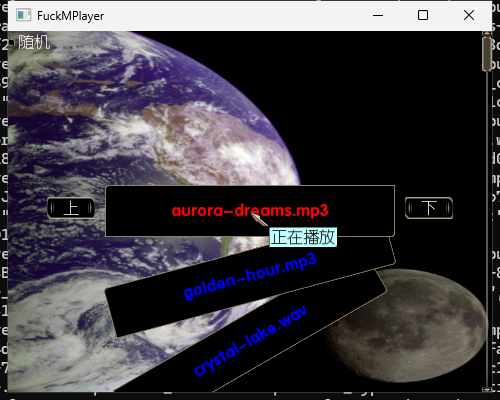
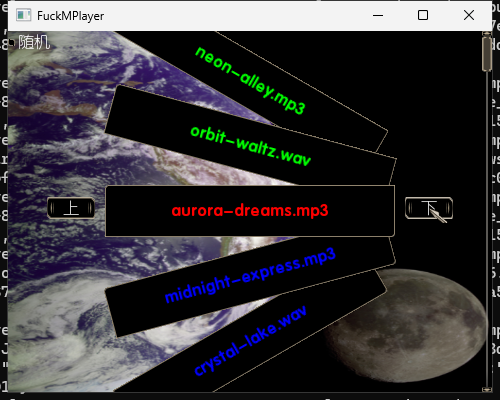
docs: commit scrolled CI shell shot (tracks above + below)
From Actions run 39932200734 after 下 clicks: GPN wallpaper, five-slot
wheel with titles above and below the red playing row.

diff --git a/README.md b/README.md
@@ -20,7 +20,7 @@ GitHub Actions (`ci.yml`) on `master`:
 
 Screenshot capture on `windows-latest` is soft-fail so a headless runner cannot fail the MSBuild job. When D3D9 + CEGUI paint, the capture shows the real TaharezLook wheel (coloured track labels, prev/next, random, volume) on an intentional black clear — not an empty grey wx client.
 
-Example CI run whose artifact supplied the shell shot below: [#39930034091](https://github.com/esrrhs/fuck-music-player/actions/runs/39930034091).
+Example CI run whose artifact supplied the shell shot below: [#39932200734](https://github.com/esrrhs/fuck-music-player/actions/runs/39932200734).
 
 Player UI (CI capture of CEGUI main window, no audio/FMOD):
 

diff --git a/README_CN.md b/README_CN.md
@@ -20,7 +20,7 @@
 
 在 `windows-latest` 上截图步骤为软失败，避免无桌面会话拖红 MSBuild。当 D3D9 + CEGUI 正常绘制时，截图为真实的 TaharezLook 转盘界面（彩色曲名、上/下、随机、音量），背景为有意的黑色清屏，而非空白灰色 wx 客户区。
 
-提供下方窗口截图的 CI 运行：[#39930034091](https://github.com/esrrhs/fuck-music-player/actions/runs/39930034091)。
+提供下方窗口截图的 CI 运行：[#39932200734](https://github.com/esrrhs/fuck-music-player/actions/runs/39932200734)。
 
 播放器完整界面（CI 截取 CEGUI 主界面，无音频/FMOD）：
 
